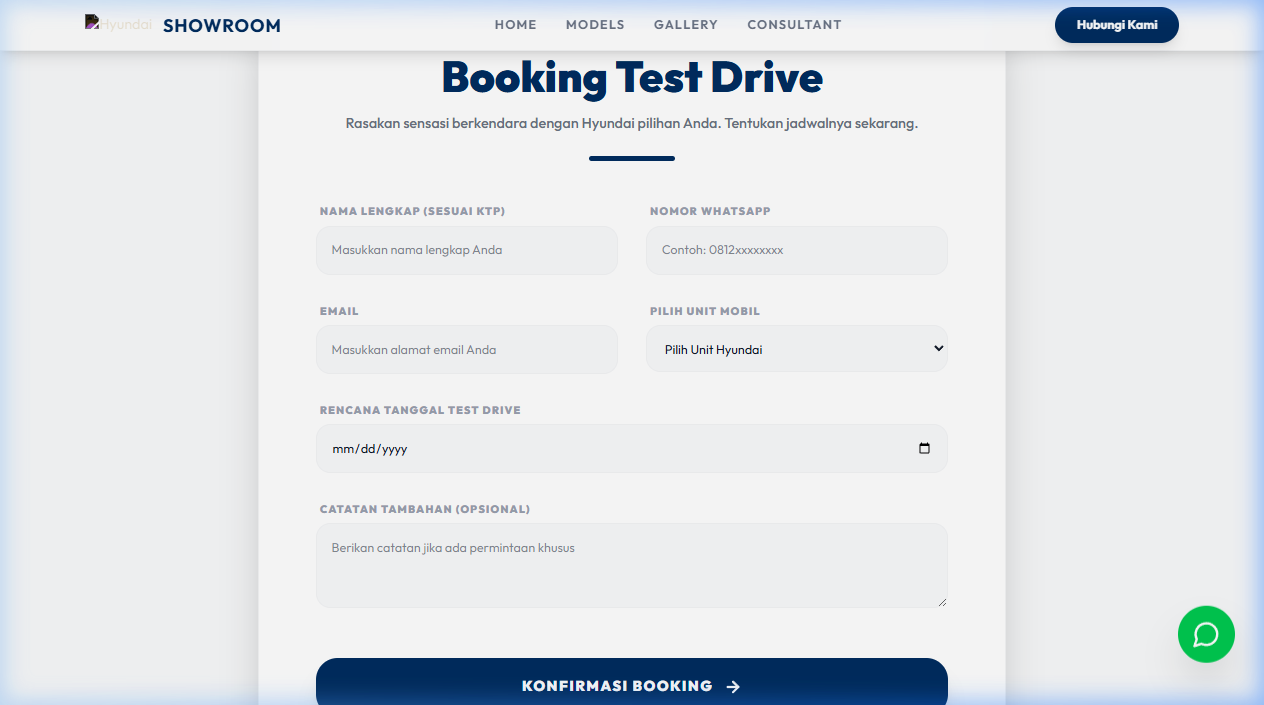
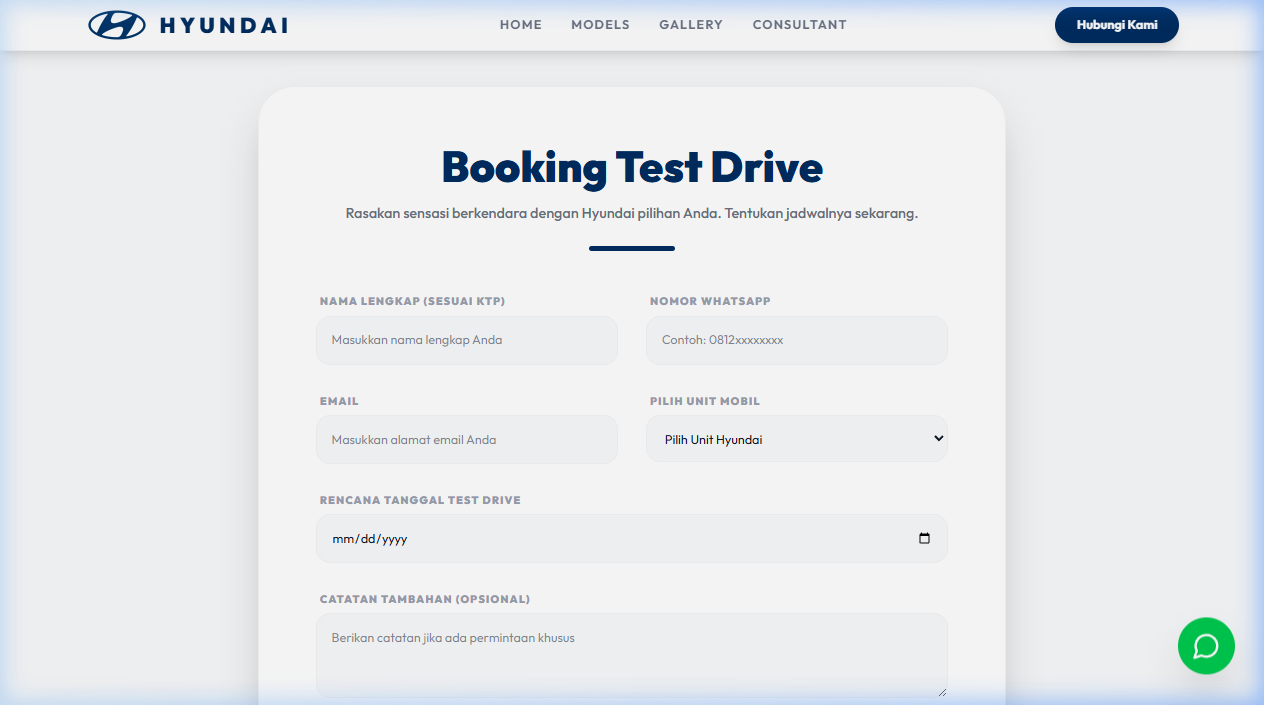
feat: Add social media, maps, and footer branding. docs: Update README screenshots

diff --git a/resources/views/welcome.blade.php b/resources/views/welcome.blade.php
@@ -27,8 +27,8 @@
     <nav class="fixed top-0 w-full z-50 bg-white/80 backdrop-blur-xl border-b border-gray-100 py-4 transition-all duration-300">
         <div class="max-w-7xl mx-auto px-4 sm:px-6 lg:px-8 flex justify-between items-center">
             <div class="flex items-center">
-                <img src="https://www.hyundai.com/content/dam/hyundai/ww/en/images/common/hyundai-logo-white-small.png" alt="Hyundai" class="h-6 invert">
-                <span class="ml-3 font-bold text-xl tracking-wider text-[#002c5f] uppercase">Showroom</span>
+                <img src="{{ asset('assets/images/hyundai_logo.png') }}" alt="Hyundai" class="h-10 w-auto">
+                <span class="ml-3 font-black text-2xl tracking-[0.2em] text-[#002c5f] uppercase">Hyundai</span>
             </div>
             <div class="hidden md:flex space-x-8 text-sm font-semibold uppercase tracking-widest text-gray-500">
                 <a href="#home" class="hover:text-[#002c5f] transition-colors">Home</a>
@@ -266,8 +266,12 @@
                         allowfullscreen>
                 </iframe>
             </div>
-            <div class="rounded-3xl overflow-hidden shadow-lg h-full min-h-[300px]">
-                <iframe src="https://www.google.com/maps/embed?pb=!1m18!1m12!1m3!1d3957.6919013583567!2d112.6967817748402!3d-7.275883692731089!2m3!1f0!2f0!3f0!3m2!1i1024!2i768!4f13.1!3m3!1m2!1s0x2dd7fc6778f8447d%3A0x6794680879612f0f!2sHyundai%20Gowa%20Surabaya!5e0!3m2!1sid!2sid!4v1714876800000!5m2!1sid!2sid" width="100%" height="100%" style="border:0;" allowfullscreen="" loading="lazy" referrerpolicy="no-referrer-when-downgrade"></iframe>
+            <div class="rounded-3xl overflow-hidden shadow-lg h-full min-h-[400px]">
+                @if($consultant->maps_embed)
+                    {!! $consultant->maps_embed !!}
+                @else
+                    <iframe src="https://www.google.com/maps/embed?pb=!1m18!1m12!1m3!1d3957.6919013583567!2d112.6967817748402!3d-7.275883692731089!2m3!1f0!2f0!3f0!3m2!1i1024!2i768!4f13.1!3m3!1m2!1s0x2dd7fc6778f8447d%3A0x6794680879612f0f!2sHyundai%20Gowa%20Surabaya!5e0!3m2!1sid!2sid!4v1714876800000!5m2!1sid!2sid" width="100%" height="100%" style="border:0;" allowfullscreen="" loading="lazy" referrerpolicy="no-referrer-when-downgrade"></iframe>
+                @endif
             </div>
         </div>
     </section>
@@ -276,39 +280,53 @@
     <footer class="bg-[#002c5f] text-white py-16">
         <div class="max-w-7xl mx-auto px-4 sm:px-6 lg:px-8 grid grid-cols-1 md:grid-cols-4 gap-12">
             <div class="col-span-1 md:col-span-2">
-                <img src="https://www.hyundai.com/content/dam/hyundai/ww/en/images/common/hyundai-logo-white-small.png" alt="Hyundai" class="h-6 mb-6">
+                <div class="flex items-center mb-6">
+                    <img src="{{ asset('assets/images/hyundai_logo.png') }}" alt="Hyundai" class="h-8 w-auto brightness-0 invert">
+                    <span class="ml-3 font-black text-xl tracking-[0.2em] uppercase">Hyundai</span>
+                </div>
                 <p class="text-blue-200 max-w-md mb-8">
-                    Dealer Resmi Hyundai Surabaya menyediakan layanan penjualan unit, bengkel service, dan suku cadang asli Hyundai.
+                    Dealer Resmi Hyundai melayani penjualan unit baru, layanan purna jual, dan suku cadang asli dengan standar pelayanan profesional.
                 </p>
                 <div class="flex space-x-4">
-                    <a href="#" class="w-10 h-10 bg-white/10 rounded-full flex items-center justify-center hover:bg-white/20 transition-colors">
-                        <svg xmlns="http://www.w3.org/2000/svg" width="20" height="20" viewBox="0 0 24 24" fill="none" stroke="currentColor" stroke-width="2" stroke-linecap="round" stroke-linejoin="round"><rect width="20" height="20" x="2" y="2" rx="5" ry="5"/><path d="M16 11.37A4 4 0 1 1 12.63 8 4 4 0 0 1 16 11.37z"/><line x1="17.5" x2="17.51" y1="6.5" y2="6.5"/></svg>
-                    </a>
-                    <a href="#" class="w-10 h-10 bg-white/10 rounded-full flex items-center justify-center hover:bg-white/20 transition-colors">
-                        <svg xmlns="http://www.w3.org/2000/svg" width="20" height="20" viewBox="0 0 24 24" fill="none" stroke="currentColor" stroke-width="2" stroke-linecap="round" stroke-linejoin="round"><path d="M18 2h-3a5 5 0 0 0-5 5v3H7v4h3v8h4v-8h3l1-4h-4V7a1 1 0 0 1 1-1h3z"/></svg>
-                    </a>
+                    @if($consultant->instagram)
+                        <a href="https://instagram.com/{{ $consultant->instagram }}" target="_blank" class="w-10 h-10 bg-white/10 rounded-full flex items-center justify-center hover:bg-pink-600 transition-all">
+                            <svg xmlns="http://www.w3.org/2000/svg" width="20" height="20" viewBox="0 0 24 24" fill="none" stroke="currentColor" stroke-width="2" stroke-linecap="round" stroke-linejoin="round"><rect width="20" height="20" x="2" y="2" rx="5" ry="5"/><path d="M16 11.37A4 4 0 1 1 12.63 8 4 4 0 0 1 16 11.37z"/><line x1="17.5" x2="17.51" y1="6.5" y2="6.5"/></svg>
+                        </a>
+                    @endif
+                    @if($consultant->facebook)
+                        <a href="https://facebook.com/{{ $consultant->facebook }}" target="_blank" class="w-10 h-10 bg-white/10 rounded-full flex items-center justify-center hover:bg-blue-600 transition-all">
+                            <svg xmlns="http://www.w3.org/2000/svg" width="20" height="20" viewBox="0 0 24 24" fill="none" stroke="currentColor" stroke-width="2" stroke-linecap="round" stroke-linejoin="round"><path d="M18 2h-3a5 5 0 0 0-5 5v3H7v4h3v8h4v-8h3l1-4h-4V7a1 1 0 0 1 1-1h3z"/></svg>
+                        </a>
+                    @endif
+                    @if($consultant->tiktok)
+                        <a href="https://tiktok.com/{{ '@' . $consultant->tiktok }}" target="_blank" class="w-10 h-10 bg-white/10 rounded-full flex items-center justify-center hover:bg-black transition-all">
+                            <svg xmlns="http://www.w3.org/2000/svg" width="20" height="20" viewBox="0 0 24 24" fill="none" stroke="currentColor" stroke-width="2" stroke-linecap="round" stroke-linejoin="round"><path d="M9 12a4 4 0 1 0 4 4V4a5 5 0 0 0 5 5"/></svg>
+                        </a>
+                    @endif
                 </div>
             </div>
             <div>
-                <h4 class="font-bold text-lg mb-6 uppercase tracking-widest">Layanan</h4>
-                <ul class="space-y-4 text-blue-200 text-sm">
-                    <li><a href="#" class="hover:text-white transition-colors">Penjualan Unit Baru</a></li>
-                    <li><a href="#" class="hover:text-white transition-colors">Test Drive Gratis</a></li>
-                    <li><a href="#" class="hover:text-white transition-colors">Tukar Tambah (Trade-in)</a></li>
-                    <li><a href="#" class="hover:text-white transition-colors">Bengkel & Suku Cadang</a></li>
-                    <li><a href="#" class="hover:text-white transition-colors">Simulasi Kredit</a></li>
+                <h4 class="font-bold text-lg mb-6 uppercase tracking-widest text-blue-100">Layanan</h4>
+                <ul class="space-y-4 text-blue-200 text-sm font-medium">
+                    <li><a href="#models" class="hover:text-white transition-colors">Penjualan Unit Baru</a></li>
+                    <li><a href="#booking" class="hover:text-white transition-colors">Test Drive Gratis</a></li>
+                    <li><a href="https://api.whatsapp.com/send/?phone={{ $consultant->formatted_phone }}&text=Halo, saya ingin tanya program Tukar Tambah" class="hover:text-white transition-colors">Tukar Tambah (Trade-in)</a></li>
+                    <li><a href="https://api.whatsapp.com/send/?phone={{ $consultant->formatted_phone }}&text=Halo, saya ingin tanya info Bengkel" class="hover:text-white transition-colors">Bengkel & Suku Cadang</a></li>
+                    <li><a href="https://api.whatsapp.com/send/?phone={{ $consultant->formatted_phone }}&text=Halo, saya ingin dibuatkan Simulasi Kredit" class="hover:text-white transition-colors">Simulasi Kredit</a></li>
                 </ul>
             </div>
             <div>
-                <h4 class="font-bold text-lg mb-6 uppercase tracking-widest">Kontak</h4>
-                <p class="text-sm text-blue-200 mb-2">Operational Hours:</p>
-                <p class="text-sm font-bold mb-6">Senin - Minggu: 08.00 - 20.00 WIB</p>
-                <p class="text-sm text-blue-200 mb-2">Support Email:</p>
-                <p class="text-sm font-bold">cs@hyundai-surabaya.com</p>
+                <h4 class="font-bold text-lg mb-6 uppercase tracking-widest text-blue-100">Kontak</h4>
+                <p class="text-xs text-blue-300 uppercase tracking-widest mb-2">Jam Operasional:</p>
+                <p class="text-sm font-bold mb-6">Senin - Minggu<br>08.00 - 20.00 WIB</p>
+                <p class="text-xs text-blue-300 uppercase tracking-widest mb-2">Support Email:</p>
+                <p class="text-sm font-bold text-white hover:text-blue-200 transition-colors">
+                    <a href="mailto:{{ $consultant->email }}">{{ $consultant->email }}</a>
+                </p>
             </div>
         </div>
-        <div class="max-w-7xl mx-auto px-4 sm:px-6 lg:px-8 mt-16 pt-8 border-t border-white/10 text-center text-xs text-blue-400">
-            &copy; {{ date('Y') }} Hyundai Showroom Surabaya. All Rights Reserved.
+        <div class="max-w-7xl mx-auto px-4 sm:px-6 lg:px-8 mt-16 pt-8 border-t border-white/10 text-center text-[10px] uppercase tracking-[0.2em] text-blue-400">
+            &copy; {{ date('Y') }} Hyundai Dealer. All Rights Reserved.
         </div>
     </footer>
 

diff --git a/app/Filament/Resources/ConsultantResource.php b/app/Filament/Resources/ConsultantResource.php
@@ -38,6 +38,30 @@ class ConsultantResource extends Resource
                     ->columnSpanFull(),
                 Forms\Components\RichEditor::make('bio')
                     ->columnSpanFull(),
+                
+                Forms\Components\Section::make('Social Media')
+                    ->description('Masukkan link profil sosial media Anda')
+                    ->schema([
+                        Forms\Components\TextInput::make('instagram')
+                            ->prefix('https://instagram.com/')
+                            ->placeholder('username'),
+                        Forms\Components\TextInput::make('facebook')
+                            ->prefix('https://facebook.com/')
+                            ->placeholder('username'),
+                        Forms\Components\TextInput::make('tiktok')
+                            ->prefix('https://tiktok.com/@')
+                            ->placeholder('username'),
+                    ])->columns(3),
+
+                Forms\Components\Section::make('Location & Maps')
+                    ->description('Masukkan URL Iframe dari Google Maps')
+                    ->schema([
+                        Forms\Components\Textarea::make('maps_embed')
+                            ->label('Google Maps Embed Code')
+                            ->placeholder('<iframe src="..."></iframe>')
+                            ->rows(3)
+                            ->columnSpanFull(),
+                    ]),
             ]);
     }
 

diff --git a/database/migrations/2026_05_05_145732_add_social_and_maps_to_consultants_table.php b/database/migrations/2026_05_05_145732_add_social_and_maps_to_consultants_table.php
@@ -1,0 +1,31 @@
+<?php
+
+use Illuminate\Database\Migrations\Migration;
+use Illuminate\Database\Schema\Blueprint;
+use Illuminate\Support\Facades\Schema;
+
+return new class extends Migration
+{
+    /**
+     * Run the migrations.
+     */
+    public function up(): void
+    {
+        Schema::table('consultants', function (Blueprint $table) {
+            $table->string('instagram')->nullable();
+            $table->string('facebook')->nullable();
+            $table->string('tiktok')->nullable();
+            $table->text('maps_embed')->nullable();
+        });
+    }
+
+    /**
+     * Reverse the migrations.
+     */
+    public function down(): void
+    {
+        Schema::table('consultants', function (Blueprint $table) {
+            //
+        });
+    }
+};

diff --git a/app/Models/Consultant.php b/app/Models/Consultant.php
@@ -16,6 +16,10 @@ class Consultant extends Model
         'photo',
         'address',
         'bio',
+        'instagram',
+        'facebook',
+        'tiktok',
+        'maps_embed',
     ];
 
     public function getFormattedPhoneAttribute()

diff --git a/README.md b/README.md
@@ -21,6 +21,13 @@ AutoShow Pro adalah platform manajemen showroom mobil modern yang dirancang khus
   <em>Model Card "Break-the-frame" & Form Booking Test Drive</em>
 </p>
 
+<p align="center">
+  <img src="screenshots/footer_preview.png" width="800" alt="Footer and Maps Preview">
+</p>
+<p align="center">
+  <em>Footer Premium dengan Integrasi Social Media & Google Maps</em>
+</p>
+
 ---
 
 ## 🚀 Fitur Utama
